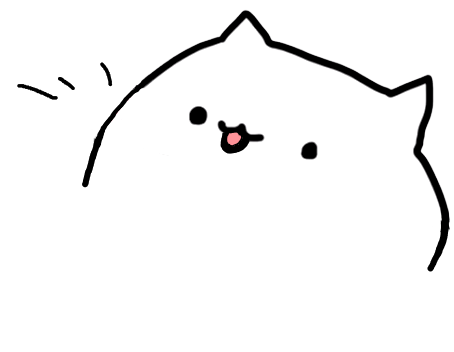
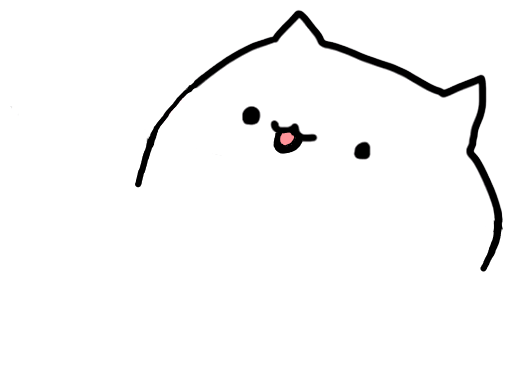
Add  rotating talking animations
Add rotating talking animations for dynamic talking cat

diff --git a/catTalkDynamic.py b/catTalkDynamic.py
@@ -40,10 +40,12 @@ class CatTalkDynamic(cat.Cat):
         self.talking_textures = []
         for key, text in self.textures.items():
             if key == "base":
-                self.idle_texture = text
+                self.base_texture = text
                 self.label.setPixmap(text)
-                continue
-            self.talking_textures.append(text)
+            elif key == "idle":
+                self.idle_texture = text
+            else:
+                self.talking_textures.append(text)
 
         self.w = self.idle_texture.width()
         self.layout = QtWidgets.QHBoxLayout()
@@ -73,15 +75,14 @@ class CatTalkDynamic(cat.Cat):
         self.frame = 0
 
     def update(self):
-        #  TODO: update to get current position of person from webcam.
-
-        # offset_x, offset_y = 0, 0
-        # print("frame: ", self.frame) # 2858 for 30 sec.
         self.frame += 1
-        pix_map = self.textures["base"].copy()
+        pix_map = self.base_texture.copy()
         painter = QtGui.QPainter(pix_map)
-        painter.drawPixmap(self.offset_x, self.offset_y, self.textures["talking_1"])
-        painter.drawPixmap(0, 0, self.textures["base"])
+        if self.is_talking:
+            painter.drawPixmap(self.offset_x, self.offset_y, self.talking_textures[self.index])
+        else:
+            painter.drawPixmap(self.offset_x, self.offset_y, self.idle_texture)
+        painter.drawPixmap(0, 0, self.base_texture)
         painter.end()
         self.label.setPixmap(pix_map)
 
@@ -127,15 +128,15 @@ class MovementListener(QtCore.QObject):
         while True:
             ret, shape = self.shape()
             if not ret:
-                print("failed to get shape")
                 continue
-            print("update: ", self.up)
             self.up += 1
             center = shape[31]
             offset_x = center[0] / self.cap_width
             offset_x *= 100
+            offset_x -= 75
             offset_y = center[1] / self.cap_height
             offset_y *= 100
+            offset_y -= 50
 
             self.movement_updater.emit(offset_x, offset_y)
 

diff --git a/read.py b/read.py
@@ -51,7 +51,6 @@ class Config:
             "rb": cat1k.Cat1k(self.keys["rb"], self.textures["1k"], self.timer),
             "kb": catBoard.CatBoard(self.keys["kb"], self.textures["4k"], self.textures["4k_rev"], self.timer),
         }
-        print("made cats")
 
         self.all_layouts = {
             "0": [],
@@ -134,13 +133,13 @@ class Config:
         path = os.path.join(path, "dynamic_talking_cat")
 
         return {
-            #            "idle": QtGui.QPixmap(os.path.join(path, "cat_idle.png")),
-            #            "talking_0": QtGui.QPixmap(os.path.join(path, "cat_talking_0.png")),
+            "idle": QtGui.QPixmap(os.path.join(path, "dynamic_idle.png")),
             "base": QtGui.QPixmap(os.path.join(path, "dynamic_talking_base.png")),
+            "talking_0": QtGui.QPixmap(os.path.join(path, "dynamic_talking_0.png")),
             "talking_1": QtGui.QPixmap(os.path.join(path, "dynamic_talking_1.png")),
-            #            "talking_2": QtGui.QPixmap(os.path.join(path, "cat_talking_2.png")),
-            #            "talking_3": QtGui.QPixmap(os.path.join(path, "cat_talking_3.png")),
-            #            "talking_4": QtGui.QPixmap(os.path.join(path, "cat_talking_4.png")),
+            "talking_2": QtGui.QPixmap(os.path.join(path, "dynamic_talking_2.png")),
+            "talking_3": QtGui.QPixmap(os.path.join(path, "dynamic_talking_3.png")),
+            "talking_4": QtGui.QPixmap(os.path.join(path, "dynamic_talking_4.png")),
         }
 
     @staticmethod
